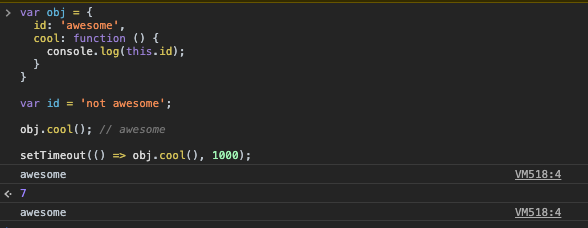
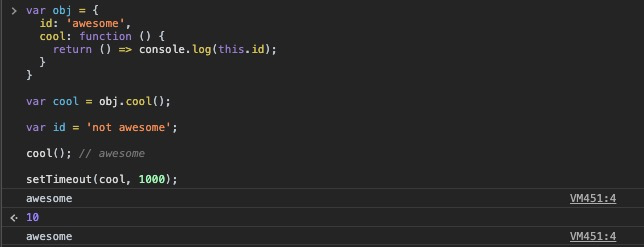
fix: scope & closure - appendixC arrow function statement problem

diff --git a/scope & closures/Appendix-C.md b/scope & closures/Appendix-C.md
@@ -29,6 +29,8 @@ setTimeout(obj.cool, 1000); // not awesome
 
 👆在 `setTimeout` 里面执行关于 `obj.cool` 的回调函数时，发现 `this.id` 获取的值是全局作用域中 `var id` 的值；产生这个问题的根源是在回调函数中丢失了对于 `this` 的绑定。
 
+----
+
 想要解决这个问题，通常的做法是利用词法作用域的特性，将 `this` 用变量/参数 `self` 来代替：
 
 ```js
@@ -52,7 +54,29 @@ setTimeout(function () {
 
 👆显然，这是回避了 `this` 指向的问题，转而用词法作用域来解决 —— `self.id` 本质上就是通过 *RHS* 进行词法作用域的查找，将 `obj` 作为参数传入，因此在 `setTimeout` 中，`obj.cool` 取得的值就是 `obj.id` 的值，而非全局变量 `id` 的值。
 
-另一种比较靠谱的解决方案是显示的绑定 `this` 的指向👇：
+或者：
+```js
+var obj = {
+  id: 'awesome',
+  cool: function () {
+    console.log(this.id);
+  }
+}
+
+var id = 'not awesome';
+
+obj.cool(); // awesome
+
+setTimeout(function () { obj.cool() }, 1000); // awesome
+```
+
+![avatar](./assets/closure_appendix_c_this_otherfn.png)
+
+👆同样，这也是利用了词法作用域的规则，但是函数 `cool` 的 `this` 是被隐式的绑定在调用它的对象 `obj` 上。
+
+----
+
+另一种比较靠谱的解决方案是使用 `bind` 显示的绑定 `this` 的指向👇：
 
 ```js
 var obj = {
@@ -71,23 +95,26 @@ setTimeout(obj.cool.bind(obj), 1000); // awesome
 
 ![avatar](./assets/closure_appendix_c_this_bind.png)
 
+----
 
 而箭头函数的出现，在一定程度上简化了使用 `this` 的难度，比如上述问题可以这样得到解决👇：
 ```js
 var obj = {
   id: 'awesome',
   cool: function () {
-    console.log(this.id);
+    return () => console.log(this.id);
   }
 }
 
+var cool = obj.cool();
+
 var id = 'not awesome';
 
-obj.cool(); // awesome
+cool(); // awesome
 
-setTimeout(() => obj.cool(), 1000); // awesome
+setTimeout(cool, 1000); // awesome
 ```
 
 ![avatar](./assets/closure_appendix_c_this_arrowfn.png)
 
-👆显而易见的是，箭头函数和普通函数在处理 `this` 时有不一样的机制，前者显然是在书写的时候(`() => obj.cool()`)，`obj.cool` 就绑定了 `this` 的指向为 `obj`，而不是等到调用的时候再去根据一定的规则获取 `this`。
+👆显而易见的是，箭头函数和普通函数在处理 `this` 时有不一样的机制，前者显然是在书写的时候(`var cool = obj.cool()`)，其内部返回的函数 `() => console.log(this.id)` 就绑定了 `this` 的指向为 `obj`，而不是等到调用的时候再去根据一定的规则获取 `this`。

diff --git a/README.md b/README.md
@@ -8,7 +8,7 @@
 
 - **scope & closures** -- 顾名思义, 这章主要聚焦于JS的作用域以及由此衍生出来的闭包概念; 除此之外, 区分了词法作用域、块级作用域、动态作用域等让人混淆的概念, 如果你对于这部分内容有些困惑, 不妨抽出时间来逐字逐句的仔细阅读, 最好辅助代码实例的实现
 
-- **this & object prototype** -- 这一章其实可以分为两部分, 即 `this` 部分和 `JS原型继承` 部分, this部分实际上是对于前面一章的 `动态作用域` 的延伸, 而原型部分则是作者提出 `OLOO` 概念的地方, 这部将JS原型继承错综复杂的关系进行了逐项梳理, 让我们看到原型继承的本质, 并最终提出了 `Objects Linked to Other Objects` 的设计理念
+- **objects & classes** -- 这一章其实可以分为两部分, 即 `this` 部分和 `JS原型继承` 部分, this部分实际上是对于前面一章的 `动态作用域` 的延伸, 而原型部分则是作者提出 `OLOO` 概念的地方, 这部将JS原型继承错综复杂的关系进行了逐项梳理, 让我们看到原型继承的本质, 并最终提出了 `Objects Linked to Other Objects` 的设计理念
 
 - **type & grammar** -- 你是否觉得JS的隐式转换就是一个噩梦?你是否已经投向了 `typescript` 或者 `flow` 的怀抱? 但你是否依然在写代码的过程中不知不觉的用上了隐式转换?! 任何事物存在就有其存在的合理性, 只要花点心思精华和糟粕总能被分辨, 是的，它们就在这一章中呈现
 

diff --git a/objects & classes/this or That.md b/objects & classes/this or That.md
@@ -31,3 +31,4 @@ speak.call(b); // Hello, I am Bob
 ```
 
 👆这段代码借助 `this`，能让我们在 `a` 和 `b` 两个不同的 *上下文(context)* 之间自由的切换，复用已有的逻辑。
+
